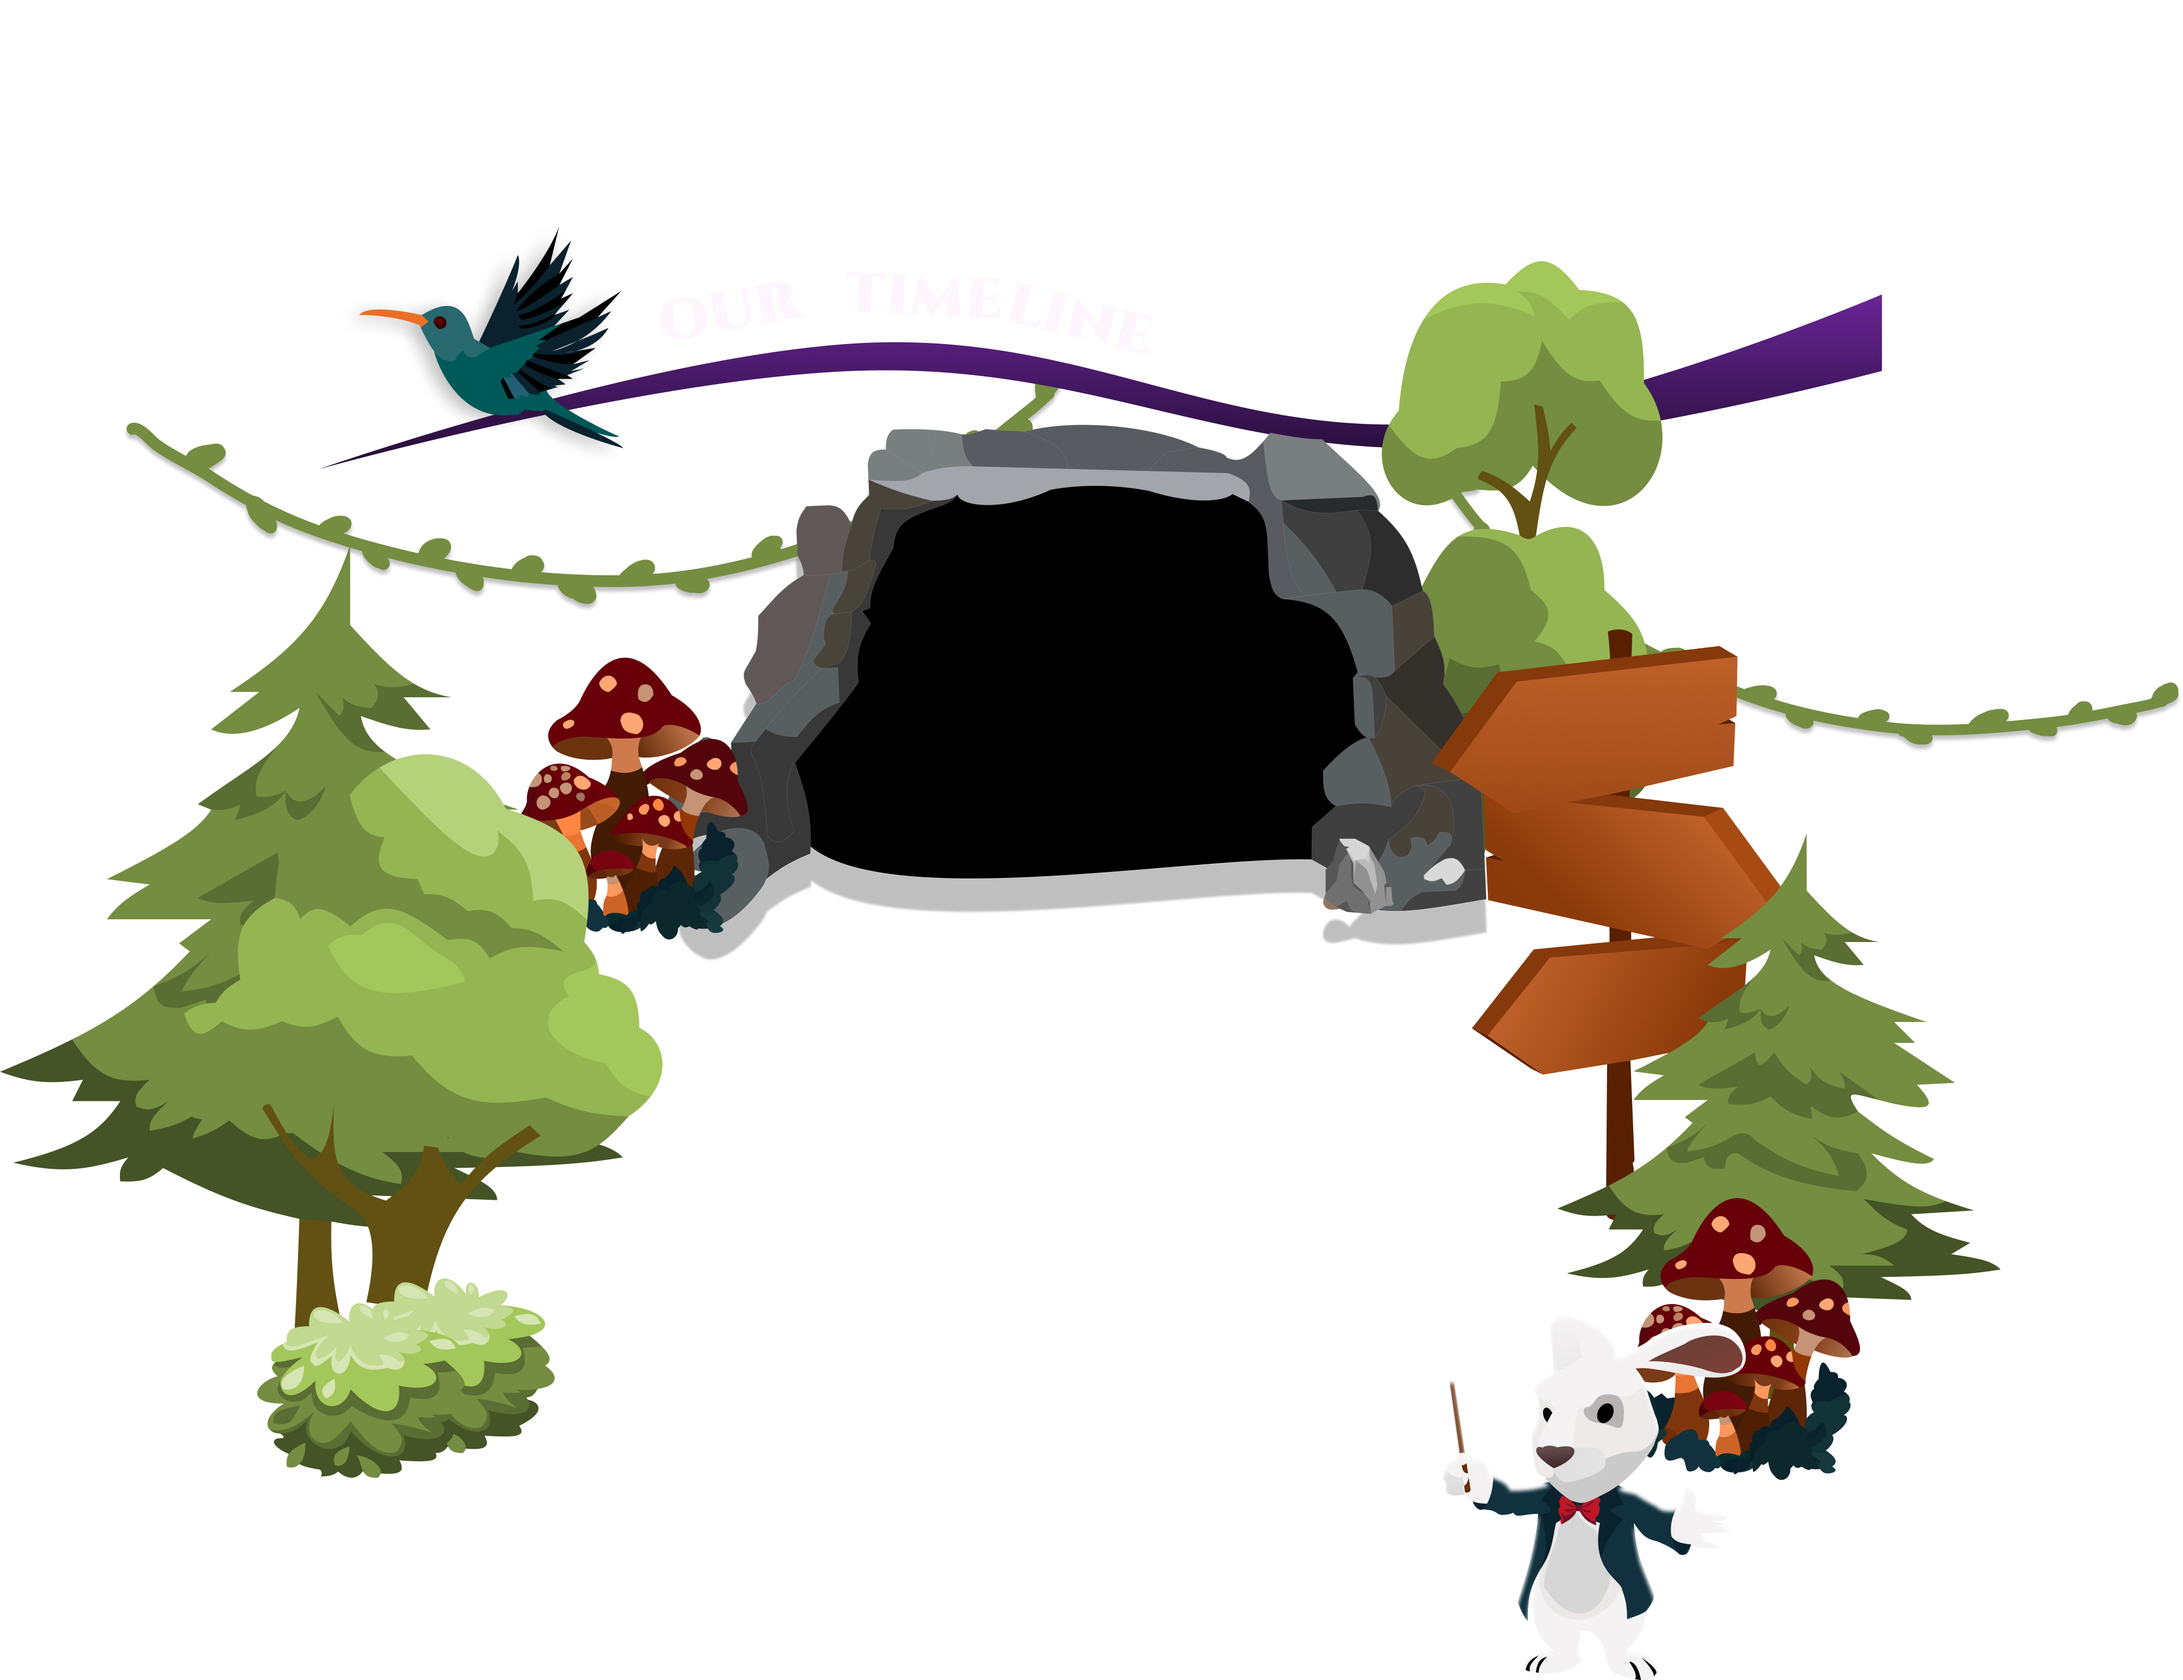
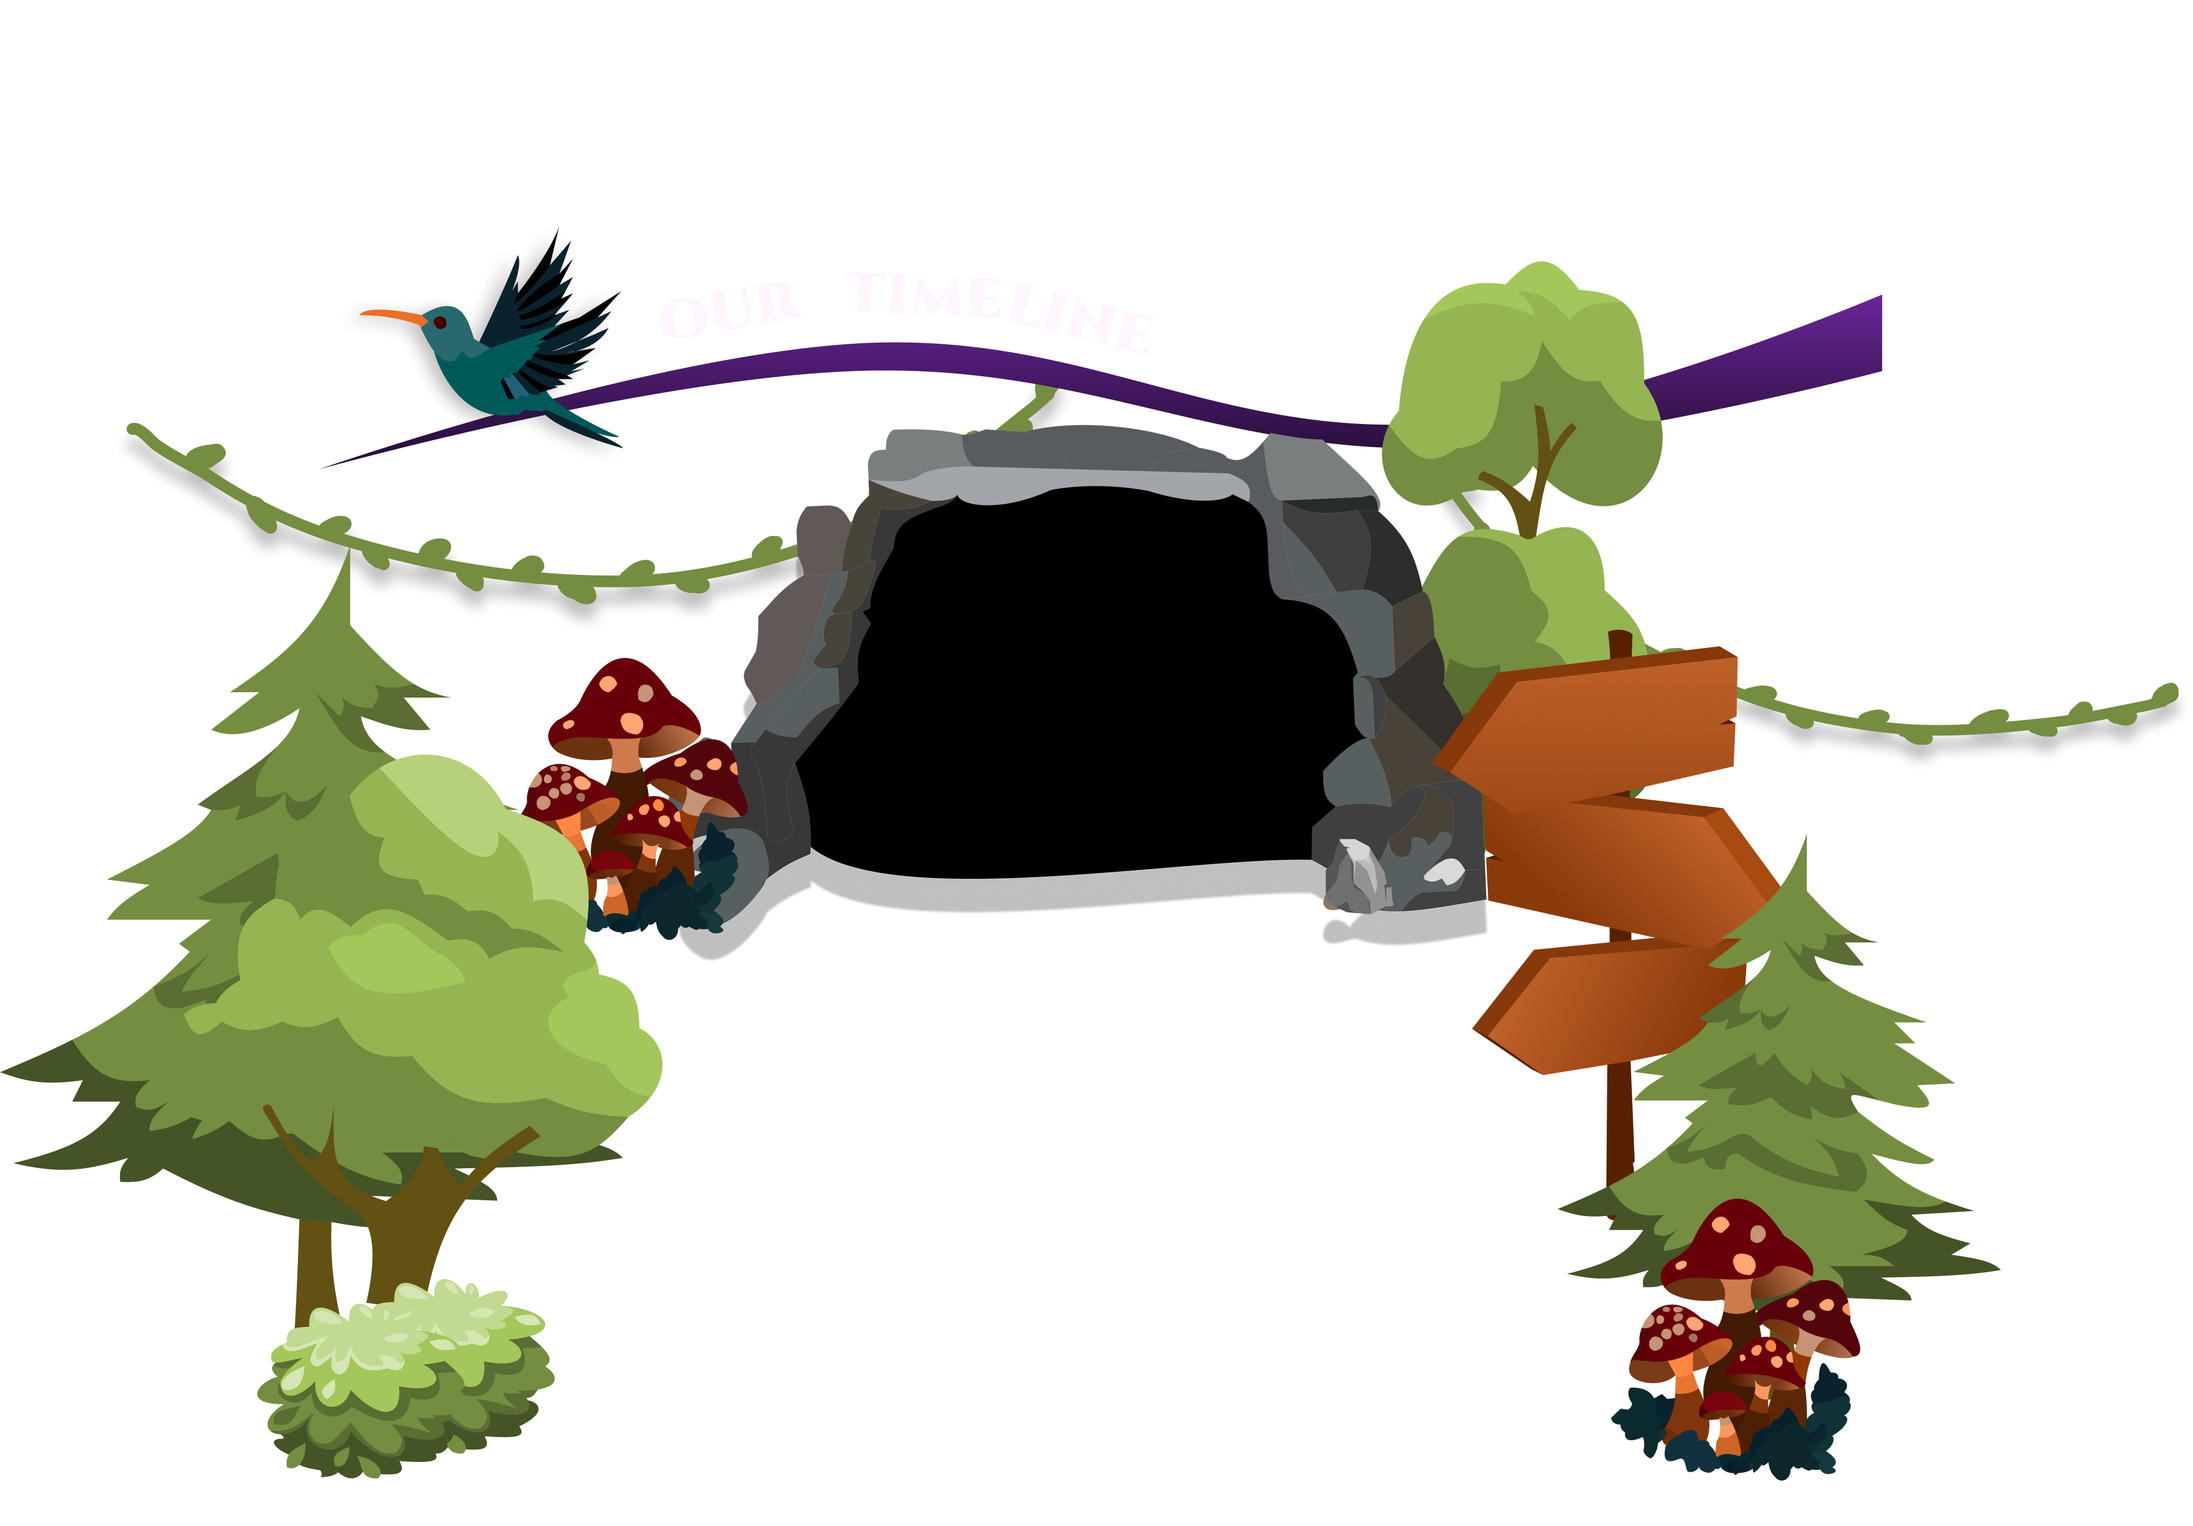
feat: Added rabbit and chest and update timeline bg

Changed region(s): [[0.0, 0.1547, 1.0, 0.9904], [0.7459, 0.9904, 0.777, 1.0]]

diff --git a/src/modules/TimelineModule/index.tsx b/src/modules/TimelineModule/index.tsx
@@ -23,36 +23,70 @@ const TimelineModule = () => {
 
     return (
         <div
-            className="min-w-screen min-h-[76.97vw] flex flex-col justify-center items-center relative mt-[10%] mb-[10%]"
+            className="w-full h-[76.97vw] flex flex-col justify-center items-center relative mt-[10%]"
             style={{
                 'backgroundImage': `url('/TimelineBg.png')`,
                 'backgroundSize': 'cover',
                 'backgroundRepeat': 'no-repeat'
             }}
-        >
-            <div className="flex-1 flex flex-col gap-0 items-center pt-[45%]">
-                {/* <img className="m-0 p-0 mb-24" src="/TreasureChest.png" alt="" width={175} height={183}/> */}
+        >   
+            {/* Treasure Chest, update the pt-[...] to adjust for the updated bg */}
+            <div className="flex-1 flex flex-col gap-0 items-center pt-[45%]"> 
+            {
+                    isBigScreen ?
+
+                        <div
+                            key={`imagebruh`}
+                            className={`w-0 
+                                h-[140px] border-[6.5px]
+                                border-[#FCFFCCCC]
+                                shadow-timeline relative rounded-[6px]`}
+                        >
+                            <div className="z-10 absolute top-[-170px] left-[-91.5px] w-[175px] h-[183px]">
+                                <Image className="" src="/TreasureChest.png" alt="" width={175} height={183} loading="eager" />
+                            </div>
+                            <BigBlurredStarIcon className="absolute top-[-100px] left-[-100px]" />
+                        </div>
+
+                        :
+                        <div
+                            key={`imagebruh`}
+                            className={`w-0 
+                                h-[60px] border-[2.5px]
+                                border-[#FCFFCCCC]
+                                shadow-timeline relative rounded-[2.5px]`}
+                        >
+                            <div className="z-10 absolute top-[-65px] left-[-33.5px] w-[67px] h-[70px]">
+                                <Image className="" src="/TreasureChest.png" alt="" width={67} height={70} loading="eager" />
+                            </div>
+                            <SmallBlurredStarIcon className="absolute top-[-30px] left-[-37px]" />
+                        </div>
+                }
+                </div>
+            
+            {/* Timeline Section */}
+            <div className="flex-1 flex flex-col gap-0 items-center bg-[#FCFFCC4D] rounded-[6px]">
                 {
                     isBigScreen ?
                         events.map((event, idx) =>
                             <div
                                 key={event.name}
                                 className={`w-0 
-                                        ${idx == events.length - 1 ? 'h-0' : 'h-[140px] border-[6.5px]'} 
-                                        ${event.status === 'Done' ? 'border-[#FCFFCCCC]' : 'border-[#FCFFCC4D]'} 
-                                        shadow-timeline relative rounded-[6px]`}
+                                    ${idx == events.length - 1 ? 'h-0' : 'h-[140px] border-[6.5px]'} 
+                                    ${event.status === 'Done' ? 'border-[#FCFFCCCC]' : 'border-[#FCFFCC4D]'} 
+                                    shadow-timeline relative rounded-[6px]`}
                             >
                                 <div
                                     className={`w-[70px] h-0 
-                                            ${idx % 2 == 1 && 'right-0'} top-[-6.5px] 
-                                            border-[3.2px] border-[#FCFFCCCC] rounded-[2px] 
-                                            shadow-timeline absolute`}
+                                        ${idx % 2 == 1 && 'right-0'} top-[-6.5px] 
+                                        border-[3.2px] border-[#FCFFCCCC] rounded-[2px] 
+                                        shadow-timeline absolute`}
                                 />
                                 {/* <BigCircleIcon className="absolute top-[-35px] left-[-35px]" /> */}
                                 <BigBlurredStarIcon className="absolute top-[-100px] left-[-100px]" />
                                 <BigEventCard
-                                    className={`absolute top-[-45px] 
-                                            ${idx % 2 == 0 ? 'left-[70px]' : 'right-[70px]'}`}
+                                    className={`absolute top-[-53px] 
+                                        ${idx % 2 == 0 ? 'left-[68px]' : 'right-[68px]'}`}
                                     event={event}
                                 />
                             </div>
@@ -62,27 +96,43 @@ const TimelineModule = () => {
                             <div
                                 key={event.name}
                                 className={`w-0 
-                                        ${idx == events.length - 1 ? 'h-0' : 'h-[60px] border-[2.5px]'} 
-                                        ${event.status === 'Done' ? 'border-[#FCFFCCCC]' : 'border-[#FCFFCC4D]'} 
-                                        shadow-timeline relative rounded-[2.5px]`}
+                                    ${idx == events.length - 1 ? 'h-0' : 'h-[60px] border-[2.5px]'} 
+                                    ${event.status === 'Done' ? 'border-[#FCFFCCCC]' : 'border-[#FCFFCC4D]'} 
+                                    shadow-timeline relative rounded-[2.5px]`}
                             >
                                 {/* Horizontal line */}
                                 <div
                                     className={`w-[27px] h-0 
-                                            ${idx % 2 == 1 && 'right-0'} top-[-2px] 
-                                            border-[0.9px] border-[#FCFFCCCC] rounded-[2.5px] 
-                                            shadow-timeline absolute`}
+                                        ${idx % 2 == 1 && 'right-0'} top-[-2px] 
+                                        border-[0.9px] border-[#FCFFCCCC] rounded-[2.5px] 
+                                        shadow-timeline absolute`}
                                 />
                                 {/* <SmallCircleIcon className="absolute top-[-8.5px] left-[-10px]" /> */}
                                 <SmallBlurredStarIcon className="absolute top-[-30px] left-[-37px]" />
                                 <SmallEventCard
-                                    className={`absolute top-[-20px] 
-                                            ${idx % 2 == 0 ? 'left-[30px]' : 'right-[30px]'}`}
+                                    className={`absolute top-[-25px] 
+                                        ${idx % 2 == 0 ? 'left-[25px]' : 'right-[25px]'}`}
                                     event={event}
                                 />
                             </div>
                         )
                 }
+            </div>
+
+            {/* Rabbit */}
+            <div className="flex-1 flex flex-col gap-0 items-center">
+                <div className="relative">
+                    {
+                        isBigScreen ?
+                            <div className="z-20 absolute top-[-5vw] right-[-45vw] w-[280px] h-[337px]">
+                                <Image src="/KelinciTimeline.png" alt="" width={280} height={337} />
+                            </div>
+                            :
+                            <div className="z-20 absolute top-[-10vw] right-[-45vw] w-[96px] h-[116px]">
+                                <Image src="/KelinciTimeline.png" alt="" width={96} height={116} />
+                            </div>
+                    }
+                </div>
             </div>
         </div>
     )
